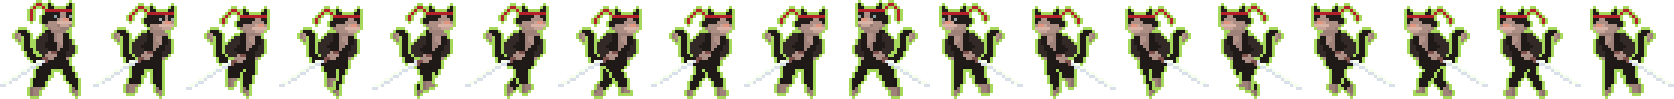
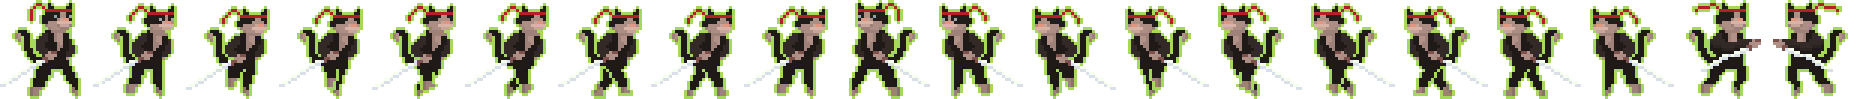
Atualizado

diff --git a/game.py b/game.py
@@ -20,8 +20,10 @@ def Jogar():
 
     global velocity_y, velocity_x
     global usandoInvestida, velInvestida, distInvestida, timerDistInvestida
+    global cooldownInvestida, cooldownInvestidaTimer
 
     global anguloMouse
+    global vet_x, vet_y
     global contadorQuadros
     global ultimasCoords
 
@@ -36,66 +38,77 @@ def Jogar():
 
     global v_str
 
-
     while True:
 
         # MOVIMENTO DO JOGADOR
-        if(key_input.key_pressed('w')):                                      # Tecla W Pressionada
+        if(key_input.key_pressed('w') and not usandoInvestida):                                      # Tecla W Pressionada
             velocity_y = -velMovimento
-        elif(velocity_y < 0):
-            velocity_y+=dc_speed*janela.delta_time()
+        elif(velocity_y < 0 and not usandoInvestida):
+            transitioning = True
+            velocity_y = 0
+            #velocity_y+=dc_speed*janela.delta_time()
 
-        if(key_input.key_pressed('s')):                                      # Tecla S Pressionada
+        if(key_input.key_pressed('s') and not usandoInvestida):                                      # Tecla S Pressionada
             velocity_y = velMovimento
-        elif(velocity_y > 0):
-            velocity_y-=dc_speed*janela.delta_time()
+        elif(velocity_y > 0 and not usandoInvestida):
+            velocity_y = 0
+            transitioning = True
+            #velocity_y-=dc_speed*janela.delta_time()
         
-        if(key_input.key_pressed('a')):                                      # Tecla A Pressionada
+        if(key_input.key_pressed('a') and not usandoInvestida):                                      # Tecla A Pressionada
             velocity_x = -velMovimento
             ultimaDir = 'left'
             transitioning = False
-        elif(velocity_x < 0):
+        elif(velocity_x < 0 and not usandoInvestida):
             transitioning = True
-            velocity_x+=dc_speed*janela.delta_time()
+            velocity_x = 0
+            #velocity_x+=dc_speed*janela.delta_time()
 
-        if(key_input.key_pressed('d')):                                     # Tecla D Pressionada
+        if(key_input.key_pressed('d') and not usandoInvestida):                                     # Tecla D Pressionada
             velocity_x = velMovimento
             ultimaDir = 'right'
             transitioning = False
-        elif(velocity_x > 0):
+        elif(velocity_x > 0 and not usandoInvestida):
+            velocity_x = 0
             transitioning = True
-            velocity_x-=dc_speed*janela.delta_time()
+            #velocity_x-=dc_speed*janela.delta_time()
 
         # INVESTIDA
-
-        mouse_x_relativo = cursor.get_position()[0] - jogador.x - jogador.width/2
-        mouse_y_relativo = cursor.get_position()[1] - jogador.y - jogador.height/2
-
-        tempoInvestida = distInvestida/velInvestida
-        
         if(not usandoInvestida):
-            jogador_centro_x = jogador.x - jogador.width / 2
-            jogador_centro_y = jogador.y - jogador.height / 2
-            cursor_x, cursor_y = cursor.get_position()
-            if (jogador_centro_x != 0 or jogador_centro_y != 0) and (cursor_x != 0 or cursor_y != 0):
-                try:
-                    anguloMouse = math.degrees(math.acos(((cursor_x-jogador_centro_x)*(-cursor_y-jogador_centro_y))/((cursor_x-jogador_centro_x)*math.sqrt((-cursor_y-jogador_centro_y)**2 + 1))))
-                except:
-                    anguloMouse = 0
-            else:
-                anguloMouse = 0
+            cooldownInvestidaTimer += janela.delta_time()
 
-        if(key_input.key_pressed('space')):
+            jogador_centro_x = jogador.x + jogador.width / 2
+            jogador_centro_y = jogador.y + jogador.height / 2
+            cursor_x, cursor_y = cursor.get_position()
+
+            mouse_x_relativo = cursor_x - jogador_centro_x
+            mouse_y_relativo = cursor_y - jogador_centro_y
+
+            tempoInvestida = distInvestida/velInvestida
+
+            if (jogador_centro_x != 0 or jogador_centro_y != 0) and (cursor_x != 0 or cursor_y != 0):
+                vet_x = (mouse_x_relativo)  / (math.sqrt((mouse_x_relativo)**2 + (mouse_y_relativo)**2))
+                vet_y = (mouse_y_relativo) / (math.sqrt((mouse_y_relativo)**2 + (mouse_x_relativo)**2))
+            else:
+                vet_x = 0
+                vet_y = 0
+
+        if(key_input.key_pressed('space') and not usandoInvestida and cooldownInvestidaTimer > cooldownInvestida):
             usandoInvestida = True
         if(usandoInvestida):
             timerDistInvestida += janela.delta_time()
             if(timerDistInvestida <= tempoInvestida):
-                velocity_x = velInvestida * distInvestida
-                velocity_y = velInvestida * distInvestida
+                velocity_x = velInvestida * vet_x
+                velocity_y = velInvestida * vet_y
+            else:
+                cooldownInvestidaTimer = 0
+                usandoInvestida = False
+                timerDistInvestida = 0
 
-        if(velocity_x < 10 and velocity_x > -10):                           # Desacelerar jogador (Zerar a velocidade com valores próximos de 0)
+
+        if(velocity_x < 10 and velocity_x > -10 and not usandoInvestida):                           # Desacelerar jogador (Zerar a velocidade com valores próximos de 0)
             velocity_x = 0
-        if(velocity_y < 10 and velocity_y > -10):
+        if(velocity_y < 10 and velocity_y > -10 and not usandoInvestida):
             velocity_y = 0            
 
         # COLISÃO DO JOGADOR
@@ -109,26 +122,30 @@ def Jogar():
 
         # SPRITE DO JOGADOR
         if(velocity_x == velMovimento):                                                  # Se estiver se movendo pra direita, estado da animação 0 (Direita)
-            if jogador.get_curr_frame() < 2 or jogador.get_curr_frame() > 9:
-                jogador.set_sequence(2, 9, True)
+            jogador.setAnim(1)
 
         if(velocity_x == -velMovimento):                                                # Se estiver se movendo pra esquerda, estado da animação 0 (Esquerda)
-            if jogador.get_curr_frame() < 11 or jogador.get_curr_frame() > 18:
-                jogador.set_sequence(11, 18, True)
+            jogador.setAnim(2)
         
-        if(transitioning):
+        if(velocity_y == velMovimento or velocity_y == -velMovimento):
             if(ultimaDir=='left'):
-                jogador.set_curr_frame(10)
+                jogador.setAnim(2)
+                
             if(ultimaDir=='right'):
-                jogador.set_curr_frame(1)
+                jogador.setAnim(1)
 
-        if(velocity_x == 0):
-            transitioning = False
 
+        if(velocity_x == 0 and velocity_y == 0):
             if(ultimaDir=='left'):
-                jogador.set_sequence(9,9,True)
+                jogador.image.set_sequence(9,9,True)
             if(ultimaDir=='right'):
-                jogador.set_sequence(0,0,True)
+                jogador.image.set_sequence(0,0,True)
+
+        if(usandoInvestida):
+            if(ultimaDir=='left'):
+                jogador.setAnim(3)
+            if(ultimaDir=='right'):
+                jogador.setAnim(4)
 
 
         # MOVIMENTO ENTRE SALAS
@@ -198,7 +215,7 @@ def Jogar():
                 timer = 0
 
         janela.set_title(v_str)
-        v_str = 'x: ' + str(mouse_x_relativo) + ' y: ' + str(mouse_y_relativo) + ' ang: ' + str(anguloMouse)
+        v_str = 'vetx: ' + str(vet_x) + ' vety: ' + str(vet_y)
 
         janela.set_background_color((22,22,22))
         

diff --git a/jogadorClass.py b/jogadorClass.py
@@ -1,0 +1,55 @@
+from PPlay.sprite import *
+from PPlay.animation import *
+
+class Jogador:
+    def __init__(self,pos):
+        self.x = pos[0]
+        self.y = pos[1]
+
+        self.image = Sprite('assets/gato_animacao-Sheet.png',20)
+
+        self.image.set_sequence_time(0,19,50,True)
+        self.image.set_sequence(0,0,True)
+
+        self.image.set_position(self.x-self.image.width/2,self.y-self.image.height/2)
+
+        self.width = self.image.width
+        self.height = self.image.height
+
+    def collided(self,col):
+        return self.image.collided(col)
+    
+    def set_position(self,x,y):
+        self.x = x
+        self.y = y
+        self.image.set_position(self.x,self.y)
+
+    def draw(self):
+        self.image.draw()
+
+    def move_x(self,speed):
+        self.x += speed
+        self.image.set_position(self.x, self.y)
+
+    def move_y(self,speed):
+        self.y += speed
+        self.image.set_position(self.x, self.y)
+
+    def update(self):
+        self.image.update()
+
+    def setAnim(self, state):
+        if(state==1):
+            if self.image.get_curr_frame() < 2 or self.image.get_curr_frame() > 9:
+                self.image.set_sequence(2, 9, True)
+
+        if(state==2):
+            if self.image.get_curr_frame() < 11 or self.image.get_curr_frame() > 18:
+                self.image.set_sequence(11, 18, True)
+
+        if(state==3):
+            self.image.set_sequence(18, 18, True)
+            self.image.set_curr_frame(18)
+        if(state==4):
+            self.image.set_sequence(19, 19, True)
+            self.image.set_curr_frame(19)

diff --git a/globalVar.py b/globalVar.py
@@ -6,6 +6,7 @@ from PPlay.collision import *
 from PPlay.keyboard import *
 from PPlay.mouse import *
 import mapgenerator
+from jogadorClass import *
 
 # JANELA E DEFINIÇOES
 w,h = 1200,675
@@ -16,7 +17,7 @@ key_input = keyboard.Keyboard()
 cursor = Mouse()
 
 # SPRITES
-jogador = Sprite('assets/gato_animacao-Sheet.png',18)
+jogador = Jogador((w/2-40.5,h/2-40.5))
 ultimaDir = 'right'
 transitioning = False
 
@@ -30,10 +31,15 @@ velocity_x = 0                                                         # Velocid
 velocity_y = 0                                                         # Velocidade atual do jogador no eixo Y
 
 usandoInvestida = False
-velInvestida = 200
-distInvestida = 200
+velInvestida = 1650
+distInvestida = 230
 timerDistInvestida = 0
-anguloMouse = 0
+
+cooldownInvestida = 2
+cooldownInvestidaTimer = 2
+
+vet_x = 0
+vet_y = 0
 
 contadorQuadros = 0
 ultimasCoords = []

diff --git a/inimigo.py b/inimigo.py
@@ -23,7 +23,9 @@ class Inimigo:
         self.image.draw()
 
     def Stalk(self, target):
-        self.move
+        # Vetor normalizado entre inimigo e alvo
+        #target.
+        pass
 
     def Update(self):
         if(self.state==0):

diff --git a/main.py b/main.py
@@ -13,9 +13,6 @@ import mapgenerator
 
 janela.set_background_color((22,22,22))
 
-jogador.set_sequence_time(0,18,50,True)
-jogador.set_sequence(0,0,True)
-jogador.set_position(w/2-40.5,h/2-40.5)
 
 print(mapa)
 mapgenerator.SetSalas(mapa)
